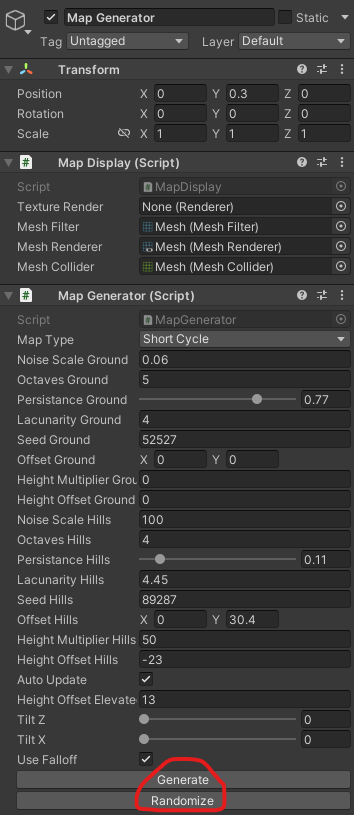
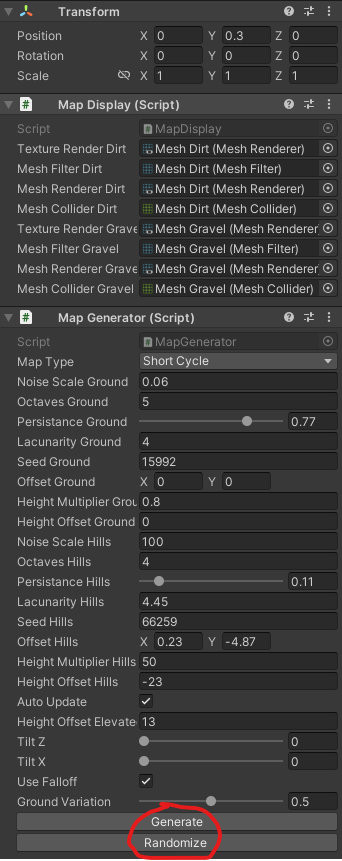
added fix to mapgenerator and readme

diff --git a/Environment generation for mobile robotic simulation/Assets/Scripts/MapGeneratorAuto.cs b/Environment generation for mobile robotic simulation/Assets/Scripts/MapGeneratorAuto.cs
@@ -49,7 +49,7 @@ public class MapGeneratorAuto : MonoBehaviour {
 		}
 
 		MapDisplay display = FindObjectOfType<MapDisplay> ();
-		display.DrawMesh (CreateMesh.CreateShape (combinedMap), TextureGenerator.TextureFromColourMap (colourMap, scaledMapWidth, scaledMapLength));
+		display.DrawMesh (CreateMesh.CreateShape (combinedMap), TextureGenerator.TextureFromColourMap (colourMap, scaledMapWidth, scaledMapLength), true);
 
 	}
 

diff --git a/README.md b/README.md
@@ -4,6 +4,8 @@
 
 This is a project that aims to create random environments that resemble a short loading cycle using Unity.
 
+This project is made in Unity version `2021.2.8f1`. If you have any problems then try using this version.
+
 ---
 
 ## Setup
@@ -21,7 +23,7 @@ This is a project that aims to create random environments that resemble a short 
 4. In the `Map Generator` field you can generate or randomize a new environment. 
 You can also change the values of how it should look but we recommend that you only change the following fields:
 
-`Height Offset Elevated`, `Tilt Z`, `Tilt X` and `Use Falloff`.
+`Height Offset Elevated`, `Tilt Z`, `Tilt X`, `Use Falloff` and `Ground Variation`.
 
 <img src = "images/map_generator.png">
 
@@ -49,7 +51,7 @@ instructions on here: `https://github.com/Unity-Technologies/URDF-Importer`.
 
 ## Automate the process
 
-If you want to be able to run this process in the console then follow the follwing instructions.
+If you want to be able to run this process in the console then do the follwing instructions.
 
 1. Navigate to `C:\Program Files\Unity\Hub\Editor\2021.2.8f1\Editor`.
 
